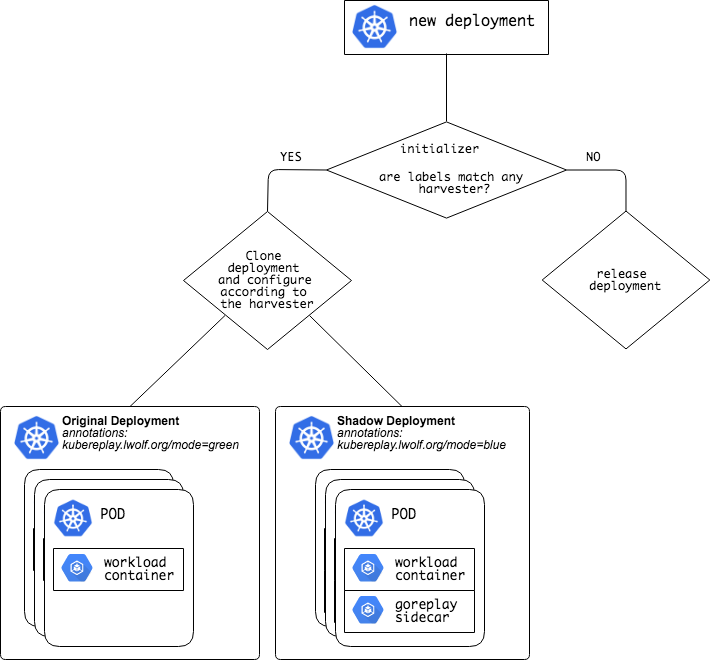
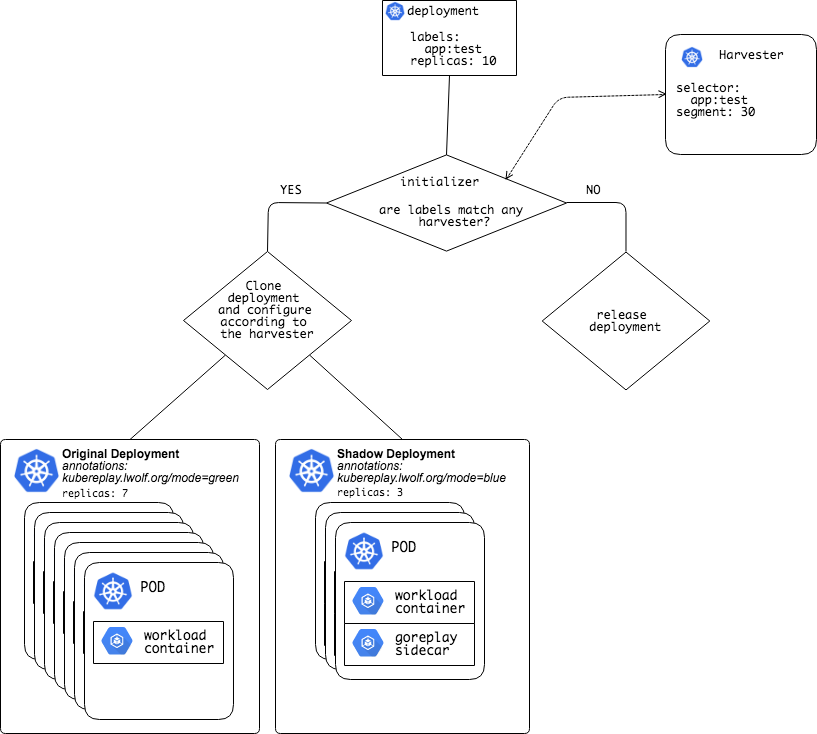
add more docs

diff --git a/docs/refinery.md b/docs/refinery.md
@@ -1,1 +1,73 @@
 # Refinery
+
+RefineryCRD is one of the core components of Kubereplay.
+It is the `server` part in terms of [goreplay distributed configuration](https://github.com/buger/goreplay/wiki/Distributed-configuration)  
+During population it creates deployment and service used for receiving traffic from workloads and sending it to the configured output.
+
+ 
+```yaml
+apiVersion: kubereplay.lwolf.org/v1alpha1
+kind: Refinery
+metadata:
+  name: refinery-example
+spec:
+  # Gor uses dynamic worker scaling by default.  Enter a number to run a set number of workers.
+  # number > 0 indicates static value
+  workers: 1  # -output-http-workers int
+  # Specify HTTP request/response timeout. By default 5s. Example: --output-http-timeout 30s (default 5s)
+  timeout: "5s" # -output-http-timeout duration
+  output:
+    file:
+      enabled: false
+      # Write incoming requests to file
+      filename: "test.log"  # -output-file value
+
+      # The flushed chunk is appended to existence file or not.
+      append: true  # -output-file-append
+
+      # Interval for forcing buffer flush to the file, default: 1s. (default 1s)
+      flushInterval: "1s"  # -output-file-flush-interval duration
+
+      # The length of the chunk queue. Default: 256 (default 256)
+      queueSize: 256  # -output-file-queue-limit int
+
+      # Size of each chunk. Default: 32mb (default 33554432)
+      fileLimit: "32mb"  # -output-file-size-limit value
+
+    tcp:
+      enabled: false
+      # Used for internal communication between Gor instances. Example:
+      uri: "replay.kubernetes:28020" # -output-tcp value
+
+    stdout: # --output-stdout
+      enabled: true
+
+    http:
+      enabled: false
+      # Forwards incoming requests to given http address.
+      uri: "http://staging.com" # -output-http value
+
+      # Enables http debug output.
+      debug: true  # -output-http-debug
+
+      # HTTP response buffer size, all data after this size will be discarded.
+      responseBuffer: 1 # -output-http-response-buffer int
+
+    elasticsearch:
+      enabled: false
+      # Send request and response stats to ElasticSearch:
+      uri: es_host:api_port/index_name # -output-http-elasticsearch string
+
+    kafka:
+      enabled: false
+      # Read request and response stats from Kafka:
+      uri: "192.168.0.1:9092,192.168.0.2:9092" # -output-kafka-host string
+
+      # If turned on, it will serialize messages from GoReplay text format to JSON.
+      json: false  # -output-kafka-json-format
+
+      # kafka topic
+      topic: "kafka-log"  # -output-kafka-topic string
+
+
+```

diff --git a/docs/scaling.md b/docs/scaling.md
@@ -1,1 +1,32 @@
 # Scaling
+
+Lets say we have the following objects:
+* original deployment - web-api
+* shadow deployment - web-api-gor
+* harvester - example-harvester
+
+There are several possible scenarios regarding the scaling.
+
+* Changing the number of replicas of the real deployment (web-api). 
+During reconciliation, the number of replicas in this deployment will be used to calculate the new split.
+ Behavior is the same as when new deployment is created.
+
+| Harvester segment  | Deployment Replicas Change   | Deployment Replicas | Shadow Deployment Replicas | 
+| ------------------ | --------------------- | -------------------------- | ----------------------- |
+| 50 | 5->20 | 5(10) | 5(10) |
+| 50 | 10->6 | 10(3)  | 10(3) |
+| 100 | 0->5 | 0(0)  | ?(5) |
+| 10 | 1->10 | 1(9)  | 1(1) |
+  
+* Changing the number of replicas of the shadow deployment (web-api-gor). 
+Number of replicas is fully controlled by Kubereplay. Any changes to replica count will be reverted during the next reconciliation cycle.
+
+* Changing `segment` value in the Harvester spec.
+During reconciliation, both deployments will be scaled. New replica counts will be calculated using new segment value and sum of replicas of deployments.
+
+| Harvester segment change  | Deployment Replicas | Shadow Deployment Replicas | 
+| ------------------ | --------------------- | -------------------------- |
+| 50->20 | 10(18) | 10(2) |
+| 50->10 | 3(5)  | 3(1) |
+| 20->100 | 1(0)  | 5(6) |
+

diff --git a/docs/harvester.md b/docs/harvester.md
@@ -1,1 +1,26 @@
 # Harvester
+
+HarvesterCRD  is one of the core components of Kubereplay.
+It is used to configure which deployments should be controlled by Kubereplay.
+Based on selector in Harvester spec Kubereplay will add GoReplay-sidecar to matching deployments.
+
+
+```yaml
+apiVersion: kubereplay.lwolf.org/v1alpha1
+kind: Harvester
+metadata:
+  name: harvester-example
+spec:
+  # Set percentage of instances to capture traffic, from 0 to 100
+  # 100 represents all instances
+  segment: 70
+  # Configure goreplay to listen to this port
+  app_port: 8080
+  # Select instances based on selector
+  selector:
+    app: kubereplay
+    module: test
+  # Name of the Refinery to send traffic to
+  refinery: "refinery-example"
+
+```

diff --git a/README.md b/README.md
@@ -22,7 +22,7 @@ Kubereplay creates and manage 2 CRDs: Harvesters and Refineries.
 Refinery - is responsible for managing dedicated GoReplay deployment used for receiving data from workloads (harvesters).
  It listens to traffic on tcp socket and then sends it to configured output (stdout, elasticsearch, kafka, http).
 
-Harvester - is used to configure which deployments should controlled by Kubereplay.
+Harvester - is used to configure which deployments should be controlled by Kubereplay.
 Based on selector in Harvester spec Kubereplay will add GoReplay-sidecar to matching deployments.
 More about initialization process is in the [docs](docs/initialization.md)
 

diff --git a/docs/index.md b/docs/index.md
@@ -1,6 +1,5 @@
-#TOS
+# Documentation
 
-* [Architecture](architecture.md)
 * [Initialization](initialization.md)
 * [HarvesterCRD](harvester.md)
 * [RefineryCRD](refinery.md)
